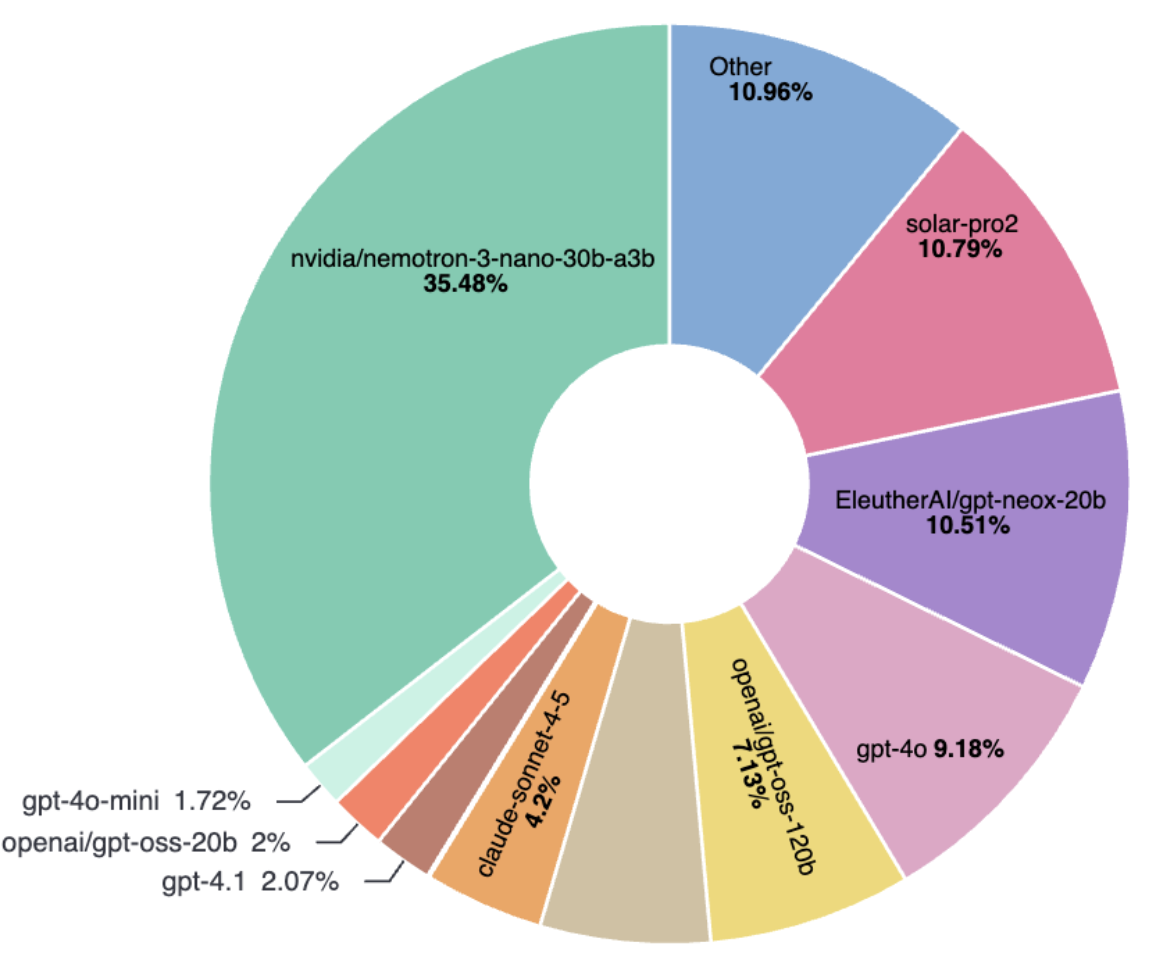
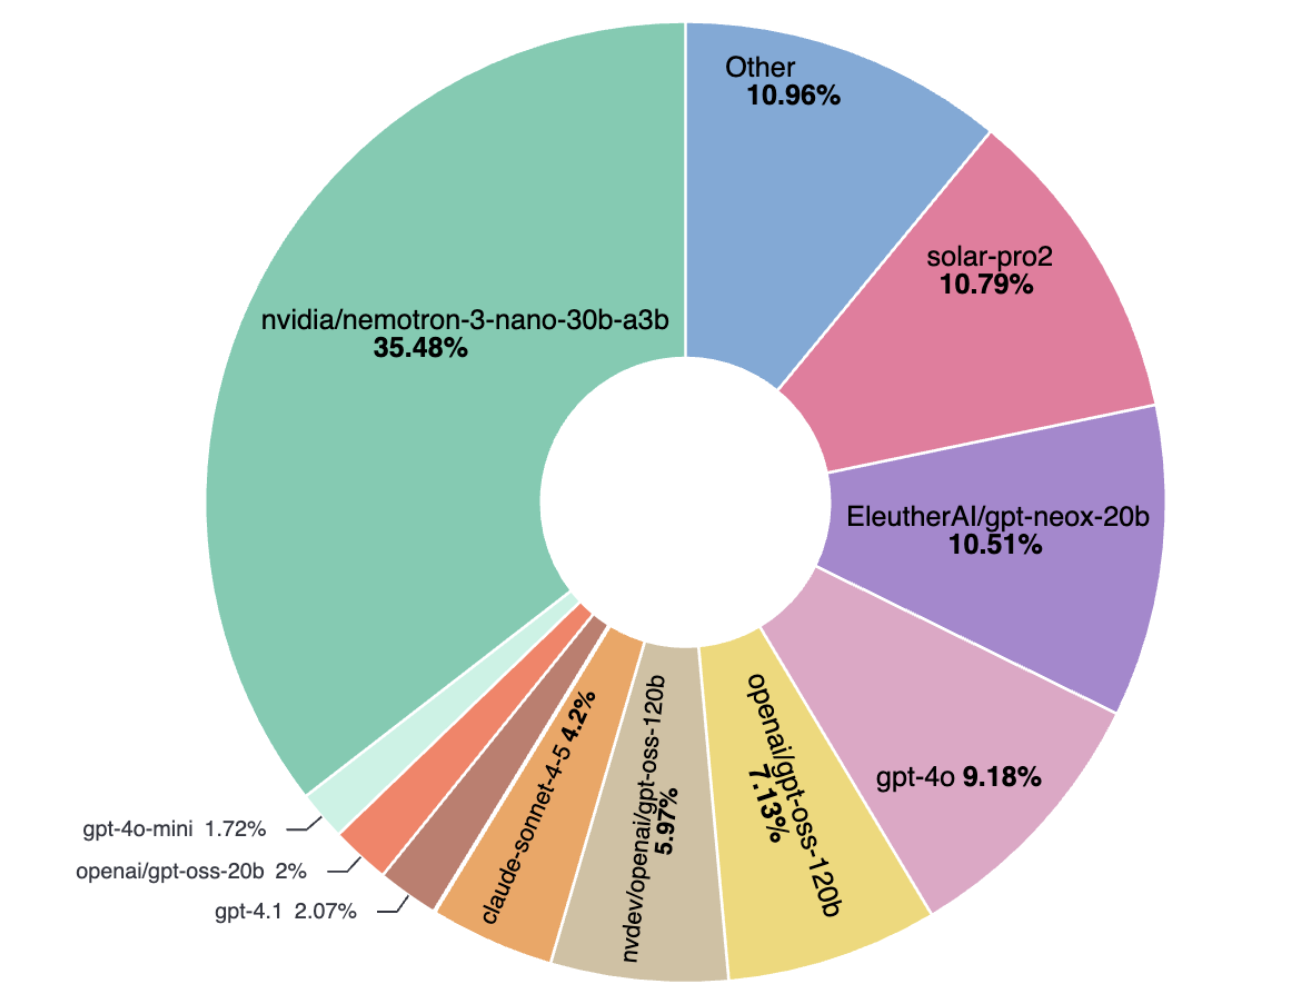
Updated image and added description

diff --git a/README.md b/README.md
@@ -148,9 +148,11 @@ To disable telemetry capture, set `NEMO_TELEMETRY_ENABLED=false`.
 
 ### Top Models
 
+This chart represents the breakdown of models used for Data Designer across all synthetic data generation jobs from 12/18/2025 to 1/14/2026. 
+
 ![Top models used for synthetic data generation](docs/images/top-models.png)
 
-_Updated on 1/14/2026_
+_Last updated on 1/14/2026_
 
 ---
 
